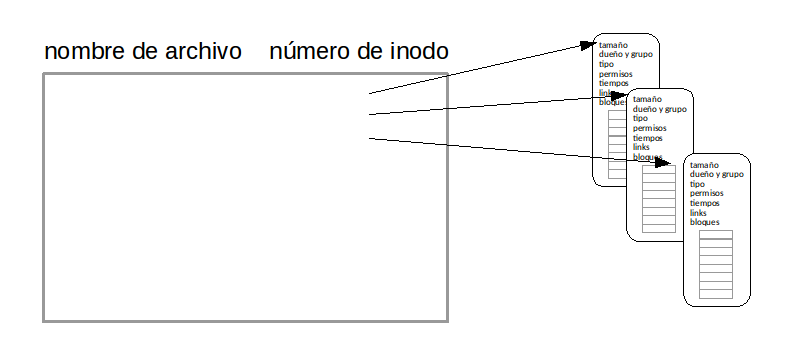
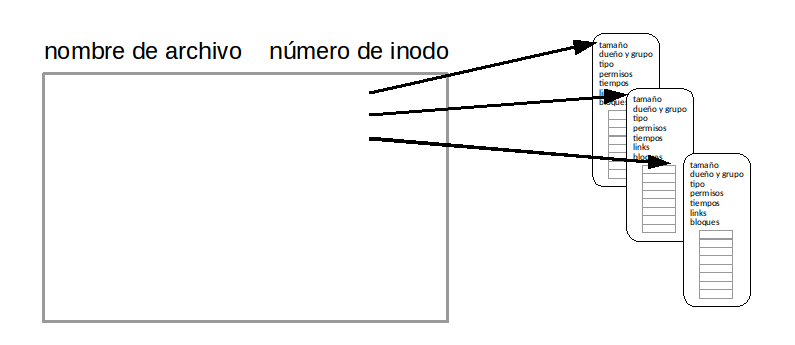
so

diff --git a/SistemasOperativos.html b/SistemasOperativos.html
@@ -405,7 +405,7 @@ Cuando se cumplan todos los requisitos, se ejecutará el servicio pedido y luego
 <!------------------------>
 <section data-transition="slide-in slide-out">
 <h2>Sistema de archivos</h2>
-<img src="img/filesystem.png" class="plain stretch">
+<img src="img/filesystem.svg" class="plain stretch">
 <aside data-markdown class="notes">
 </aside>
 </section>
